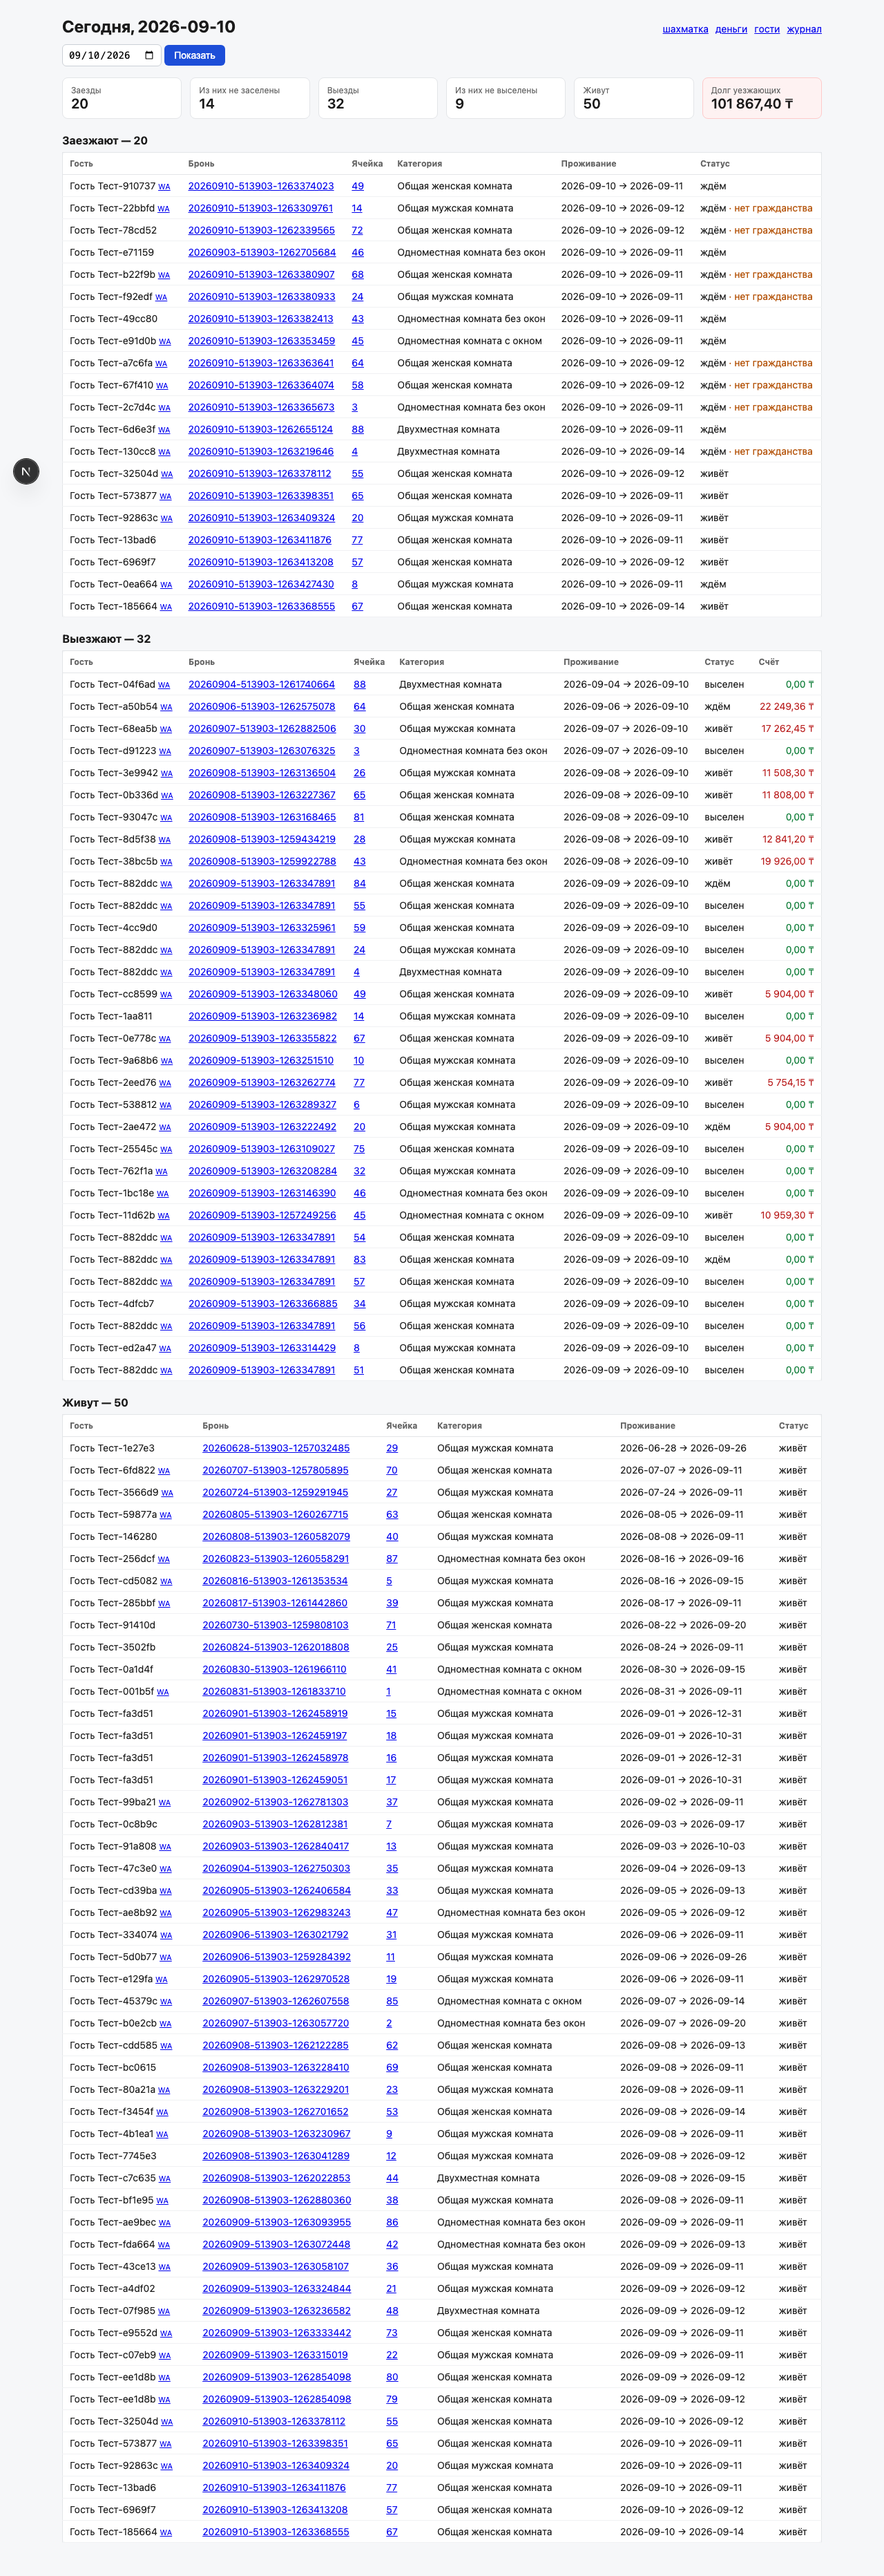
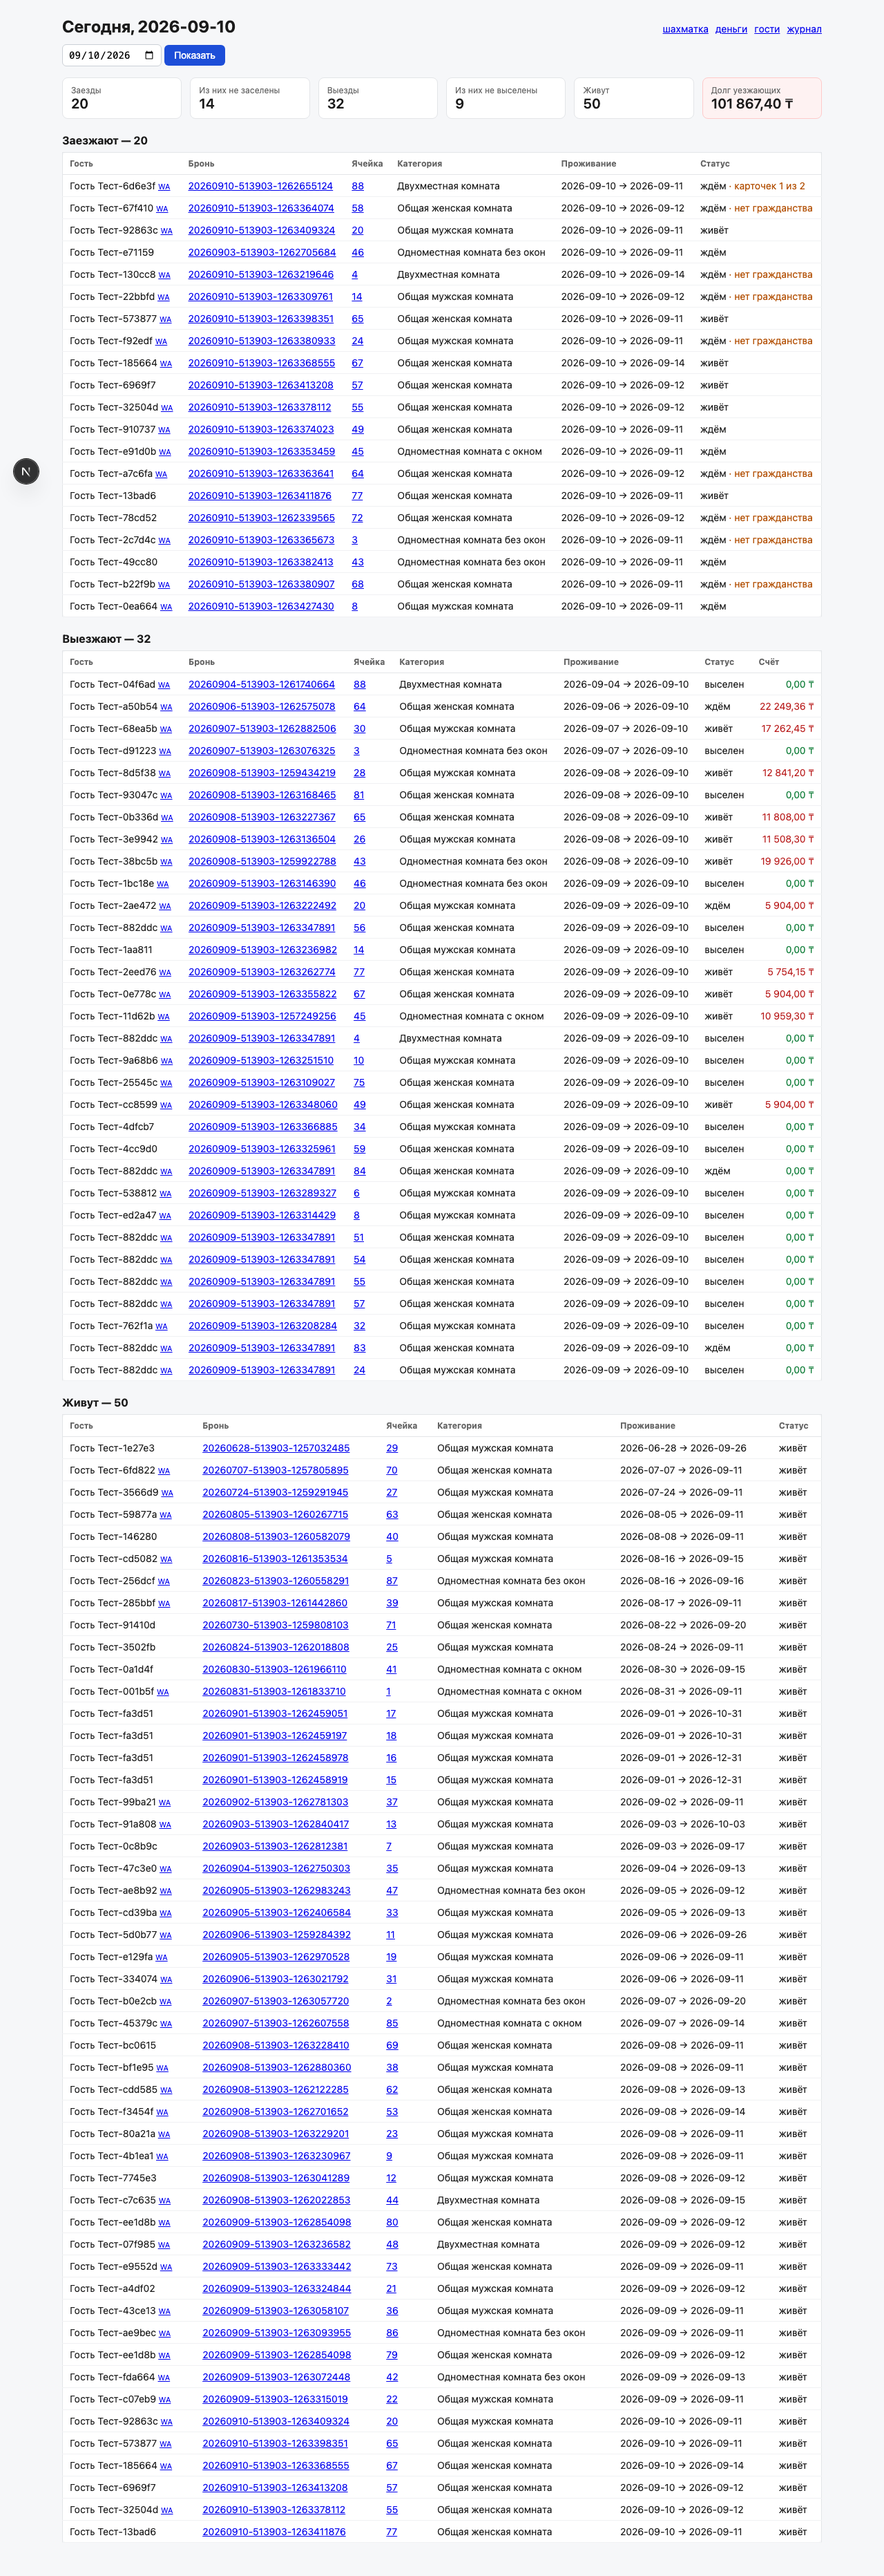
feat(desk): day screen flags arrivals whose guest cards are fewer than declared guests — the gap that left 55 August guests without documents (Q-098), which eQonaq requires for every guest

diff --git a/apps/api/src/desk/desk.controller.test.ts b/apps/api/src/desk/desk.controller.test.ts
@@ -20,6 +20,8 @@ const stay = (over: Partial<DeskStay>): DeskStay => ({
   status: 'CONFIRMED',
   balanceMinor: 0n,
   citizenship: 'KAZ',
+  adults: 1,
+  guestsRecorded: 1,
   ...over,
 });
 
@@ -30,6 +32,8 @@ const repo: DeskRepository = {
       stay({ itemId: 'i1', confirmationNumber: 'B-1', unitCode: null }),
       stay({ itemId: 'i2', confirmationNumber: 'B-2', citizenship: null }),
       stay({ itemId: 'i3', confirmationNumber: 'B-3' }),
+      // заявлено двое, карточка одна — для eQonaq нужен каждый гость (Q-098)
+      stay({ itemId: 'i6', confirmationNumber: 'B-6', adults: 2, guestsRecorded: 1 }),
       stay({
         itemId: 'i4',
         confirmationNumber: 'B-4',
@@ -68,19 +72,20 @@ describe('desk day API', () => {
   it('делит сутки на заезды, выезды и живущих; называет, что мешает заселить; считает долг уезжающих', async () => {
     const r = await request(app.getHttpServer()).get('/desk/today?date=2026-10-05').expect(200);
     expect(r.body.counts).toEqual({
-      arrivals: 3,
+      arrivals: 4,
       departures: 1,
       inHouse: 1,
-      toCheckIn: 3,
+      toCheckIn: 4,
       toCheckOut: 1,
     });
     expect(
       r.body.arrivals.map((a: { confirmationNumber: string }) => a.confirmationNumber),
-    ).toEqual(['B-1', 'B-2', 'B-3']);
+    ).toEqual(['B-1', 'B-2', 'B-3', 'B-6']);
     // стойка сразу видит, почему нельзя заселить
     expect(r.body.arrivals[0]).toMatchObject({ blockedReason: 'нет ячейки' });
     expect(r.body.arrivals[1]).toMatchObject({ blockedReason: 'нет гражданства' });
     expect(r.body.arrivals[2]).toMatchObject({ blockedReason: null });
+    expect(r.body.arrivals[3]).toMatchObject({ blockedReason: 'карточек 1 из 2' });
     // выезжающий с долгом, и долг просуммирован
     expect(r.body.departures[0]).toMatchObject({
       confirmationNumber: 'B-4',

diff --git a/apps/api/src/desk/desk.service.ts b/apps/api/src/desk/desk.service.ts
@@ -14,7 +14,9 @@ export interface DeskRow {
   status: string;
   balanceMinor: string;
   citizenship: string | null;
-  /** Чего не хватает, чтобы заселить: гражданства или ячейки (DATA_MODEL §3, ADR-006) */
+  adults: number;
+  guestsRecorded: number;
+  /** Чего не хватает, чтобы заселить: ячейки, гражданства или карточек гостей */
   blockedReason: string | null;
 }
 export interface DeskDay {
@@ -55,13 +57,18 @@ export class DeskService {
       status: s.status,
       balanceMinor: s.balanceMinor.toString(),
       citizenship: s.citizenship,
+      adults: s.adults,
+      guestsRecorded: s.guestsRecorded,
+      // Порядок важен: сначала то, без чего вообще нельзя заселить, потом то, что нужно для eQonaq
       blockedReason:
         s.status === 'CONFIRMED' || s.status === 'TENTATIVE'
           ? !s.unitCode
             ? 'нет ячейки'
             : !s.citizenship
               ? 'нет гражданства'
-              : null
+              : s.guestsRecorded < s.adults
+                ? `карточек ${s.guestsRecorded} из ${s.adults}`
+                : null
           : null,
     });
     const arrivals = stays.filter((s) => s.arrivalDate === day).map(row);

diff --git a/apps/api/src/desk/desk.repository.ts b/apps/api/src/desk/desk.repository.ts
@@ -17,6 +17,9 @@ export interface DeskStay {
   /** integer minor units; > 0 — гость должен */
   balanceMinor: bigint;
   citizenship: string | null;
+  /** Сколько гостей заявлено в брони и на скольких заведены карточки (Q-098: за август 1103 против 1048) */
+  adults: number;
+  guestsRecorded: number;
 }
 /** Рабочий день стойки: кто заезжает, кто выезжает, кто живёт (SPEC §6). */
 export interface DeskRepository {
@@ -54,6 +57,8 @@ export class PrismaDeskRepository implements DeskRepository {
         arrivalDate: true,
         departureDate: true,
         status: true,
+        adults: true,
+        _count: { select: { stayGuests: true } },
         accommodationType: { select: { name: true } },
         allocations: {
           orderBy: { startDate: 'asc' },
@@ -101,6 +106,8 @@ export class PrismaDeskRepository implements DeskRepository {
         status: r.status,
         balanceMinor: balance,
         citizenship: g?.citizenship ?? null,
+        adults: r.adults,
+        guestsRecorded: r._count.stayGuests,
       };
     });
   }

diff --git a/apps/web/src/app/today/page.tsx b/apps/web/src/app/today/page.tsx
@@ -146,6 +146,12 @@ function Group({
                   {showBlocked && r.blockedReason && (
                     <span style={{ color: '#b45309' }}> · {r.blockedReason}</span>
                   )}
+                  {showBlocked && r.guestsRecorded < r.adults && !r.blockedReason && (
+                    <span style={{ color: '#b45309' }}>
+                      {' '}
+                      · карточек {r.guestsRecorded} из {r.adults}
+                    </span>
+                  )}
                 </td>
                 {showDebt && (
                   <td style={{ ...td, textAlign: 'right' }}>

diff --git a/apps/web/src/lib/api.ts b/apps/web/src/lib/api.ts
@@ -572,6 +572,8 @@ export interface DeskRow {
   status: string;
   balanceMinor: string;
   citizenship: string | null;
+  adults: number;
+  guestsRecorded: number;
   blockedReason: string | null;
 }
 export interface DeskDay {
